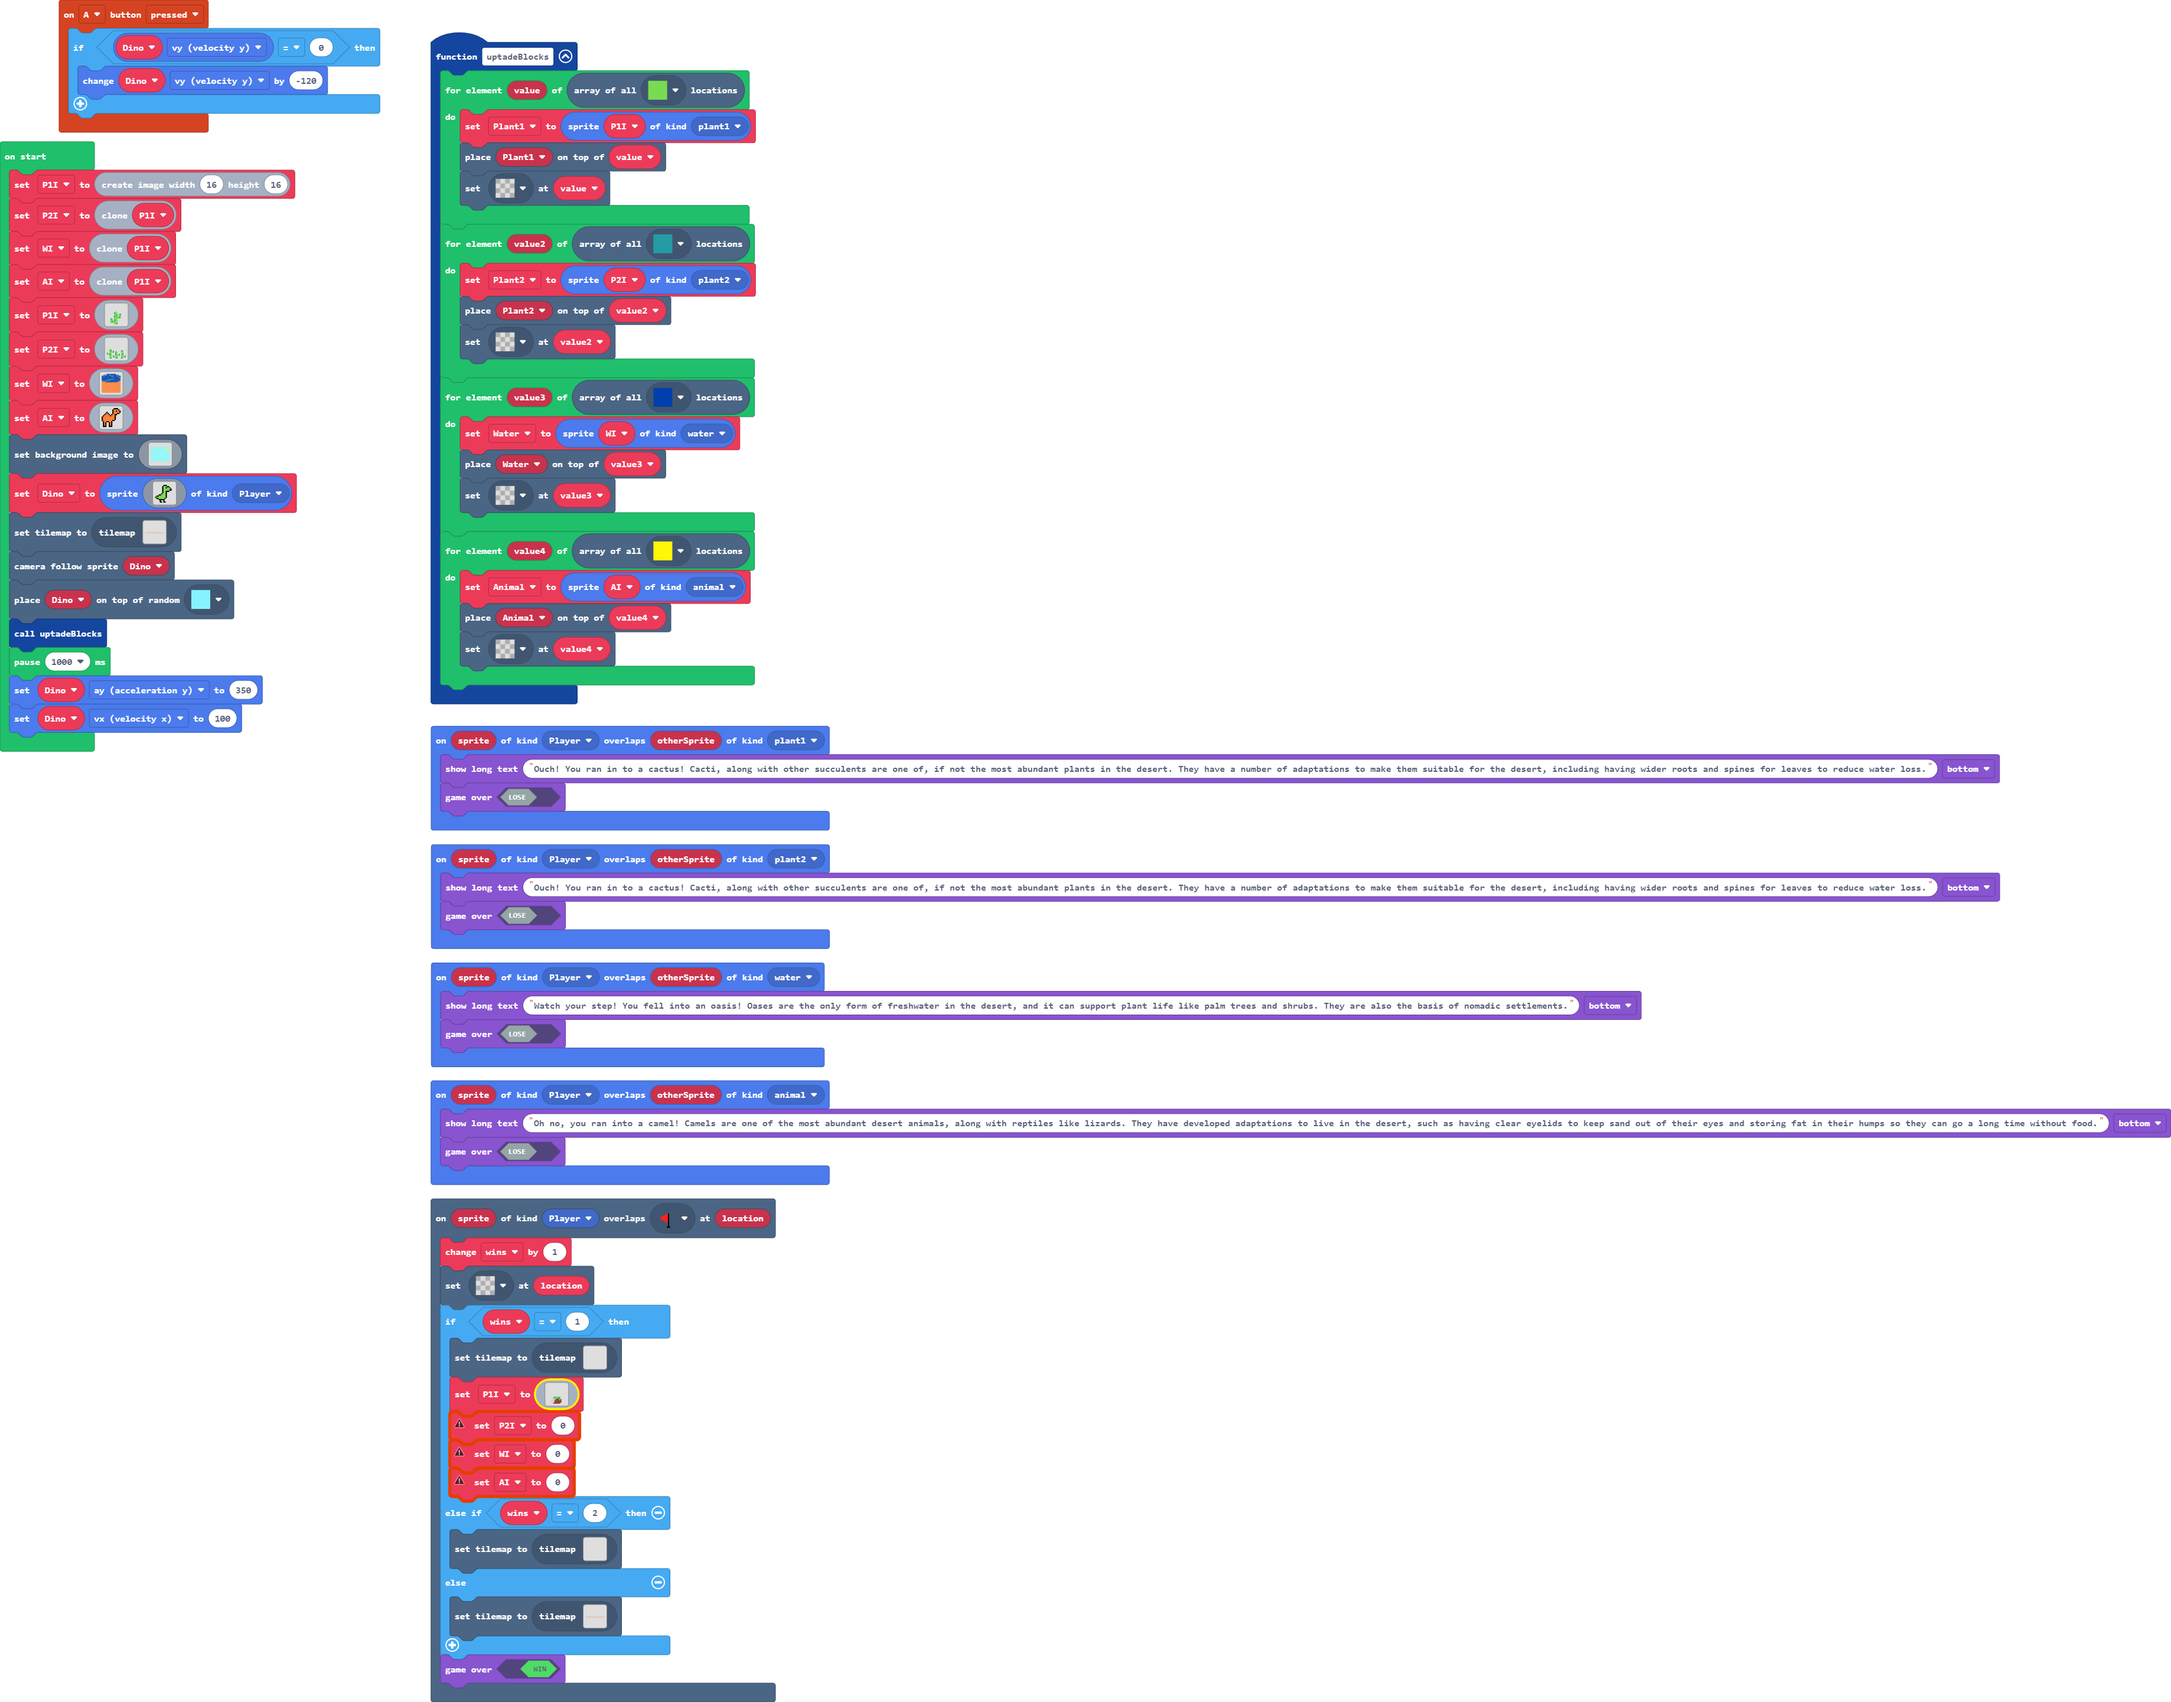
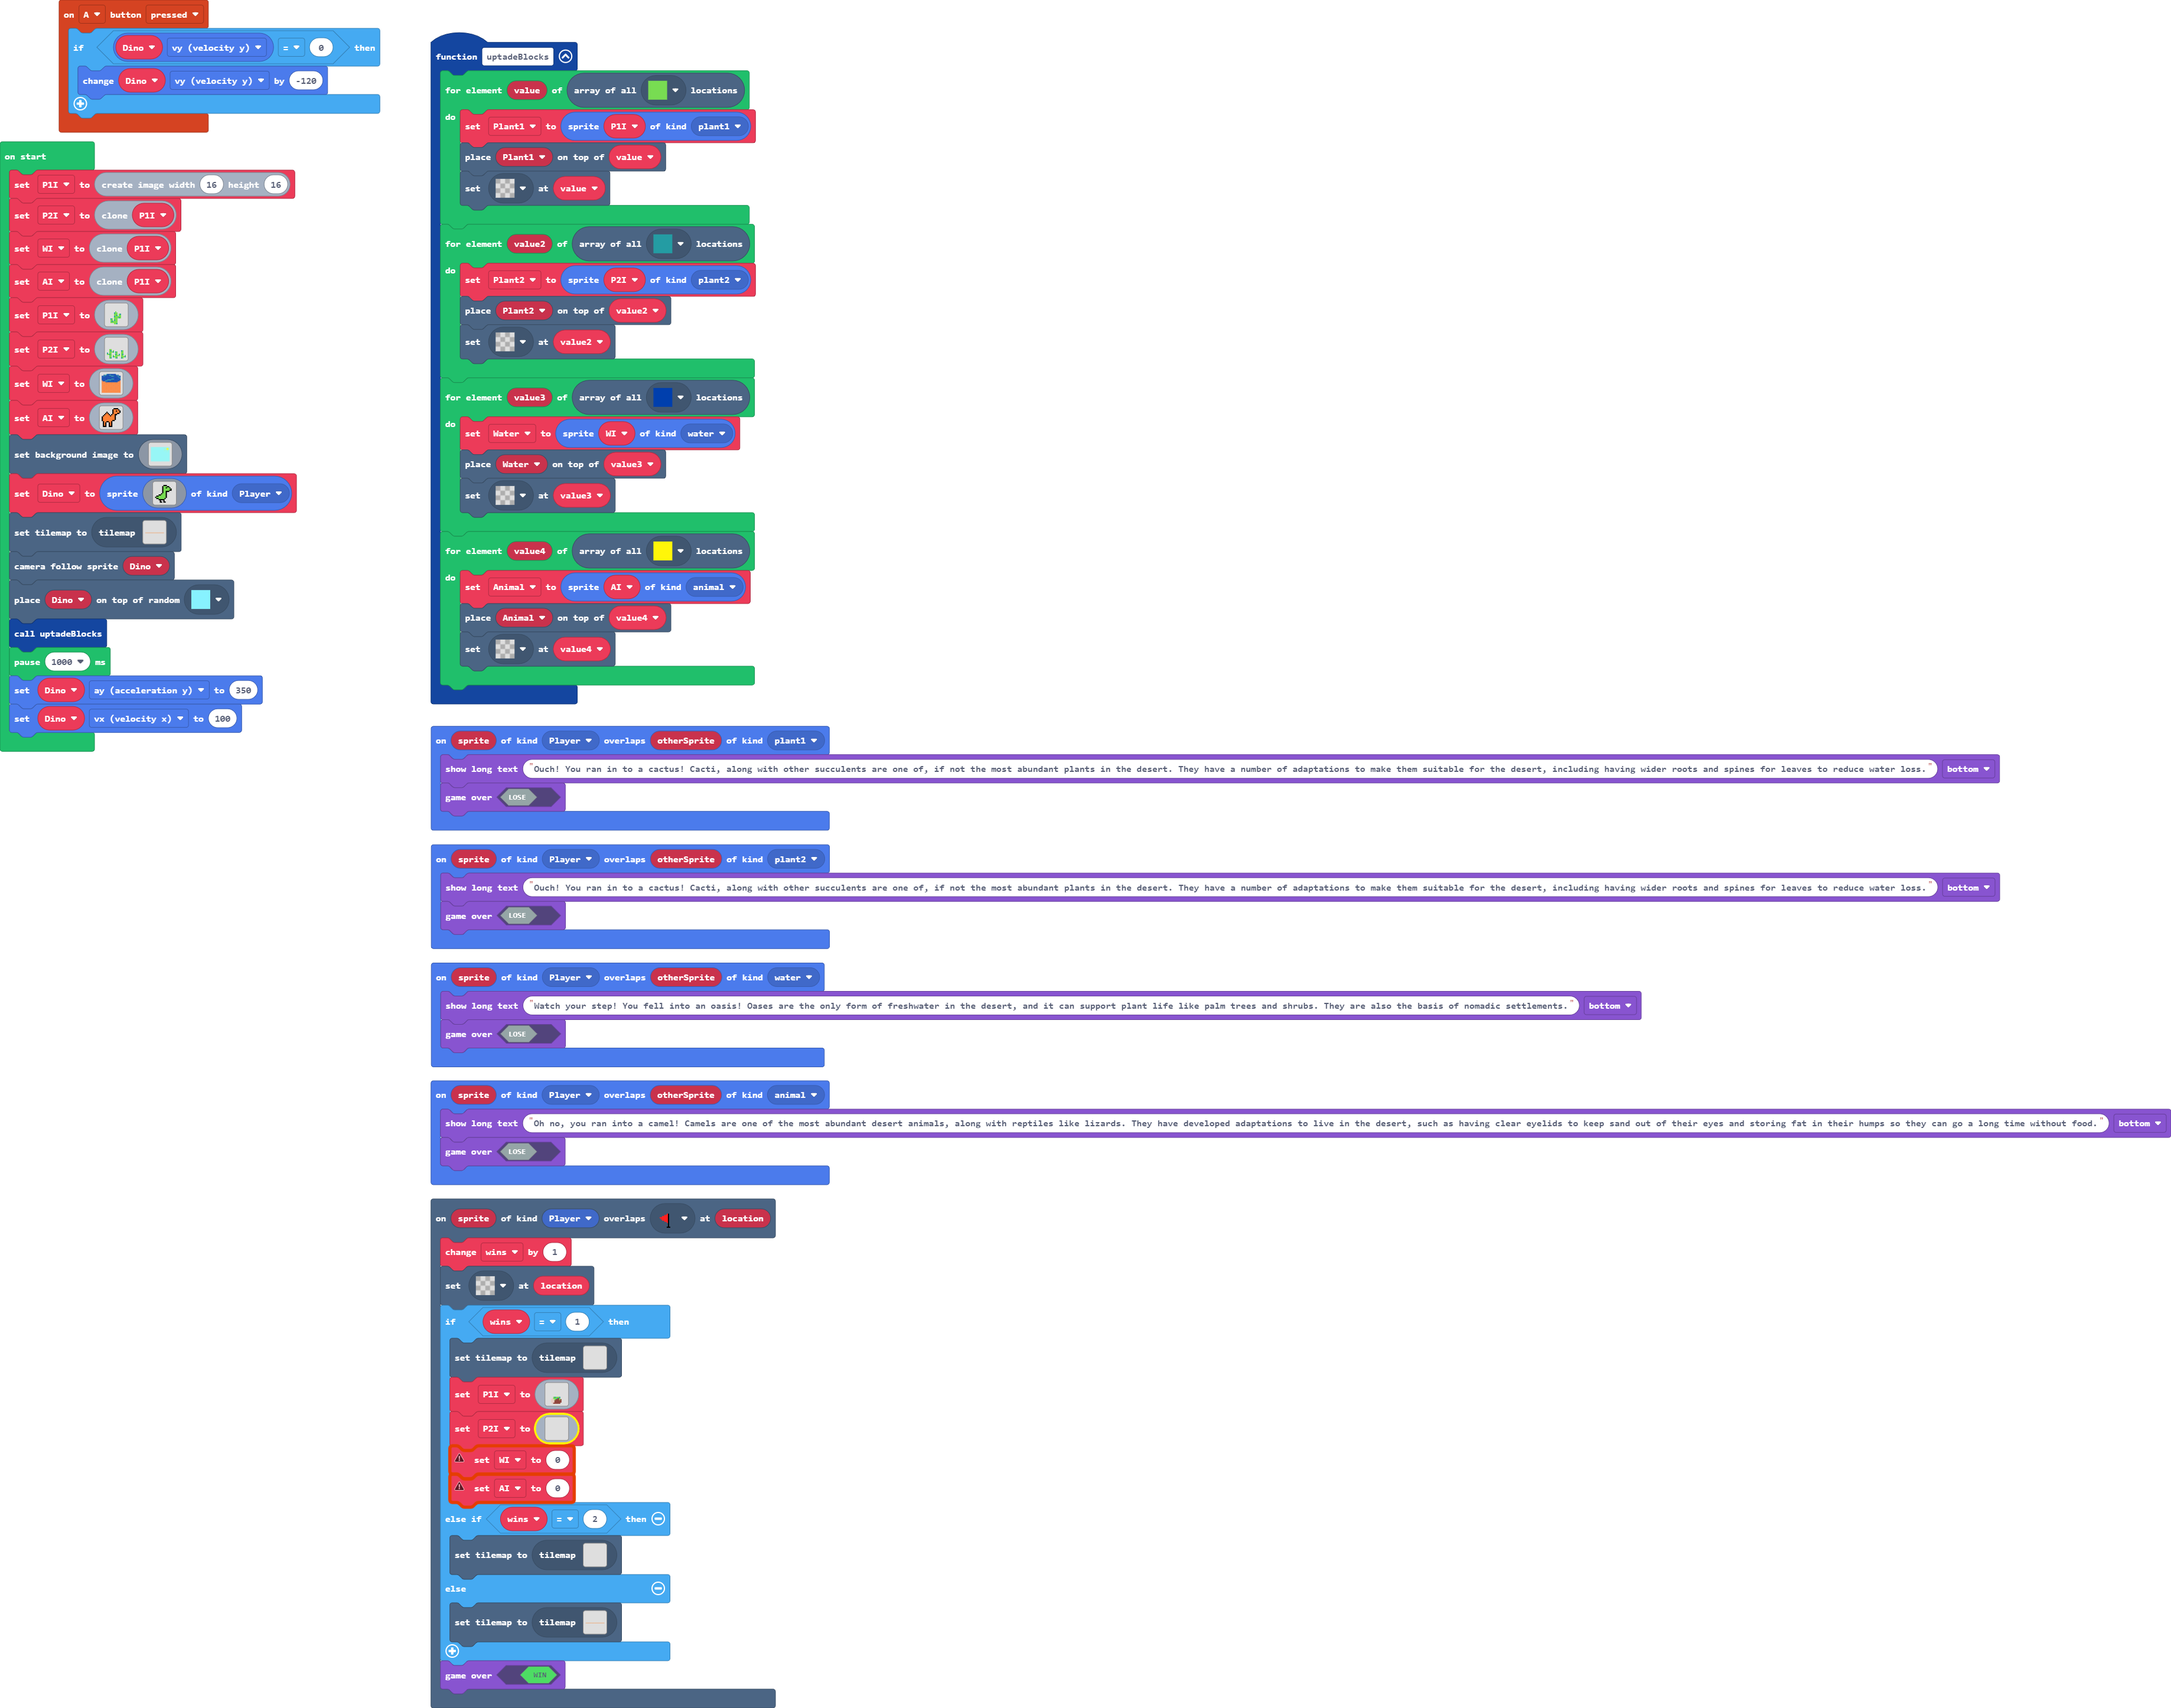
Update main.blocks, main.ts

Changed region(s): [[0.1861, 0.0625, 1.0, 0.9056], [0.0, 0.0937, 0.124, 0.4372]]

diff --git a/main.ts b/main.ts
@@ -66,7 +66,24 @@ scene.onOverlapTile(SpriteKind.Player, assets.tile`myTile5`, function (sprite, l
             . . . d d d e e e e e e . . . . 
             . . . . d e e e e e e . . . . . 
             `
-        P2I = 0
+        P2I = img`
+            . . . . . . . . . . . . . . . . 
+            . . . . . . . . . . . . . . . . 
+            . . . . . . . . . . . . . . . . 
+            . . . . . . . . . . . . . . . . 
+            . . . . . . . . . . . . . . . . 
+            . . . . . . . . . . . . . . . . 
+            . . . . . . . . . . . . . . . . 
+            . . . . . . . . . . . . . . . . 
+            . . . . . . . . . . . . . . . . 
+            . . . . . . . . . . . . . . . . 
+            . . . . . . . . . . . . . . . . 
+            . . . . . . . . . . . . . . . . 
+            . . . . . . . . . . . . . . . . 
+            . . . . . . . . . . . . . . . . 
+            . . . . . . . . . . . . . . . . 
+            . . . . . . . . . . . . . . . . 
+            `
         WI = 0
         AI = 0
     } else if (wins == 2) {
